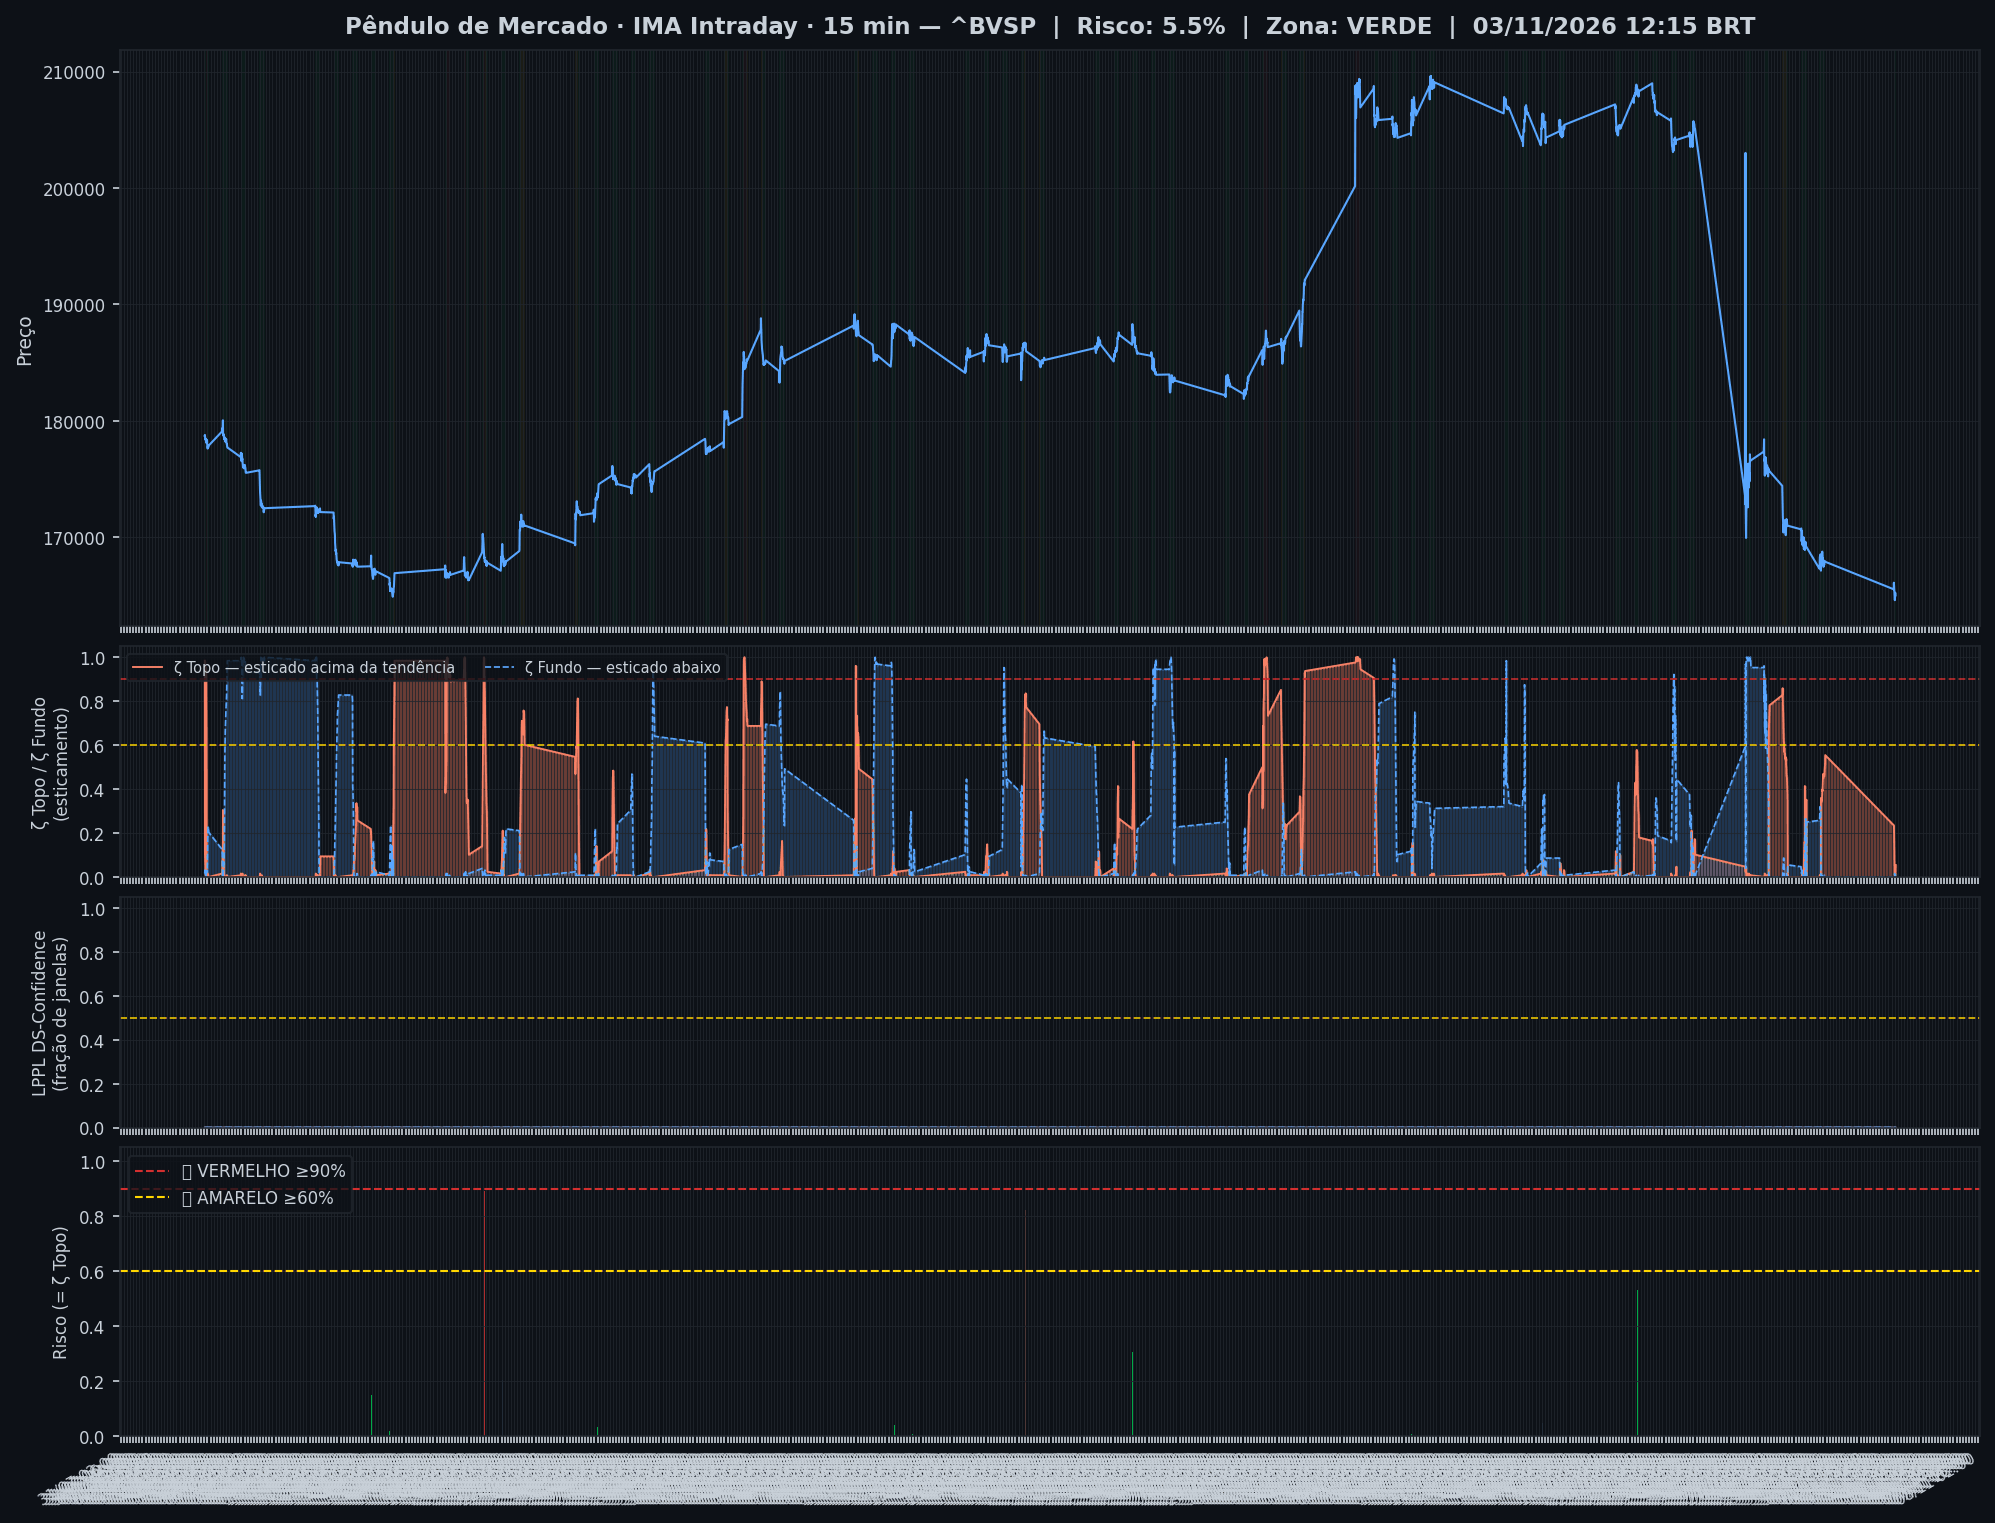
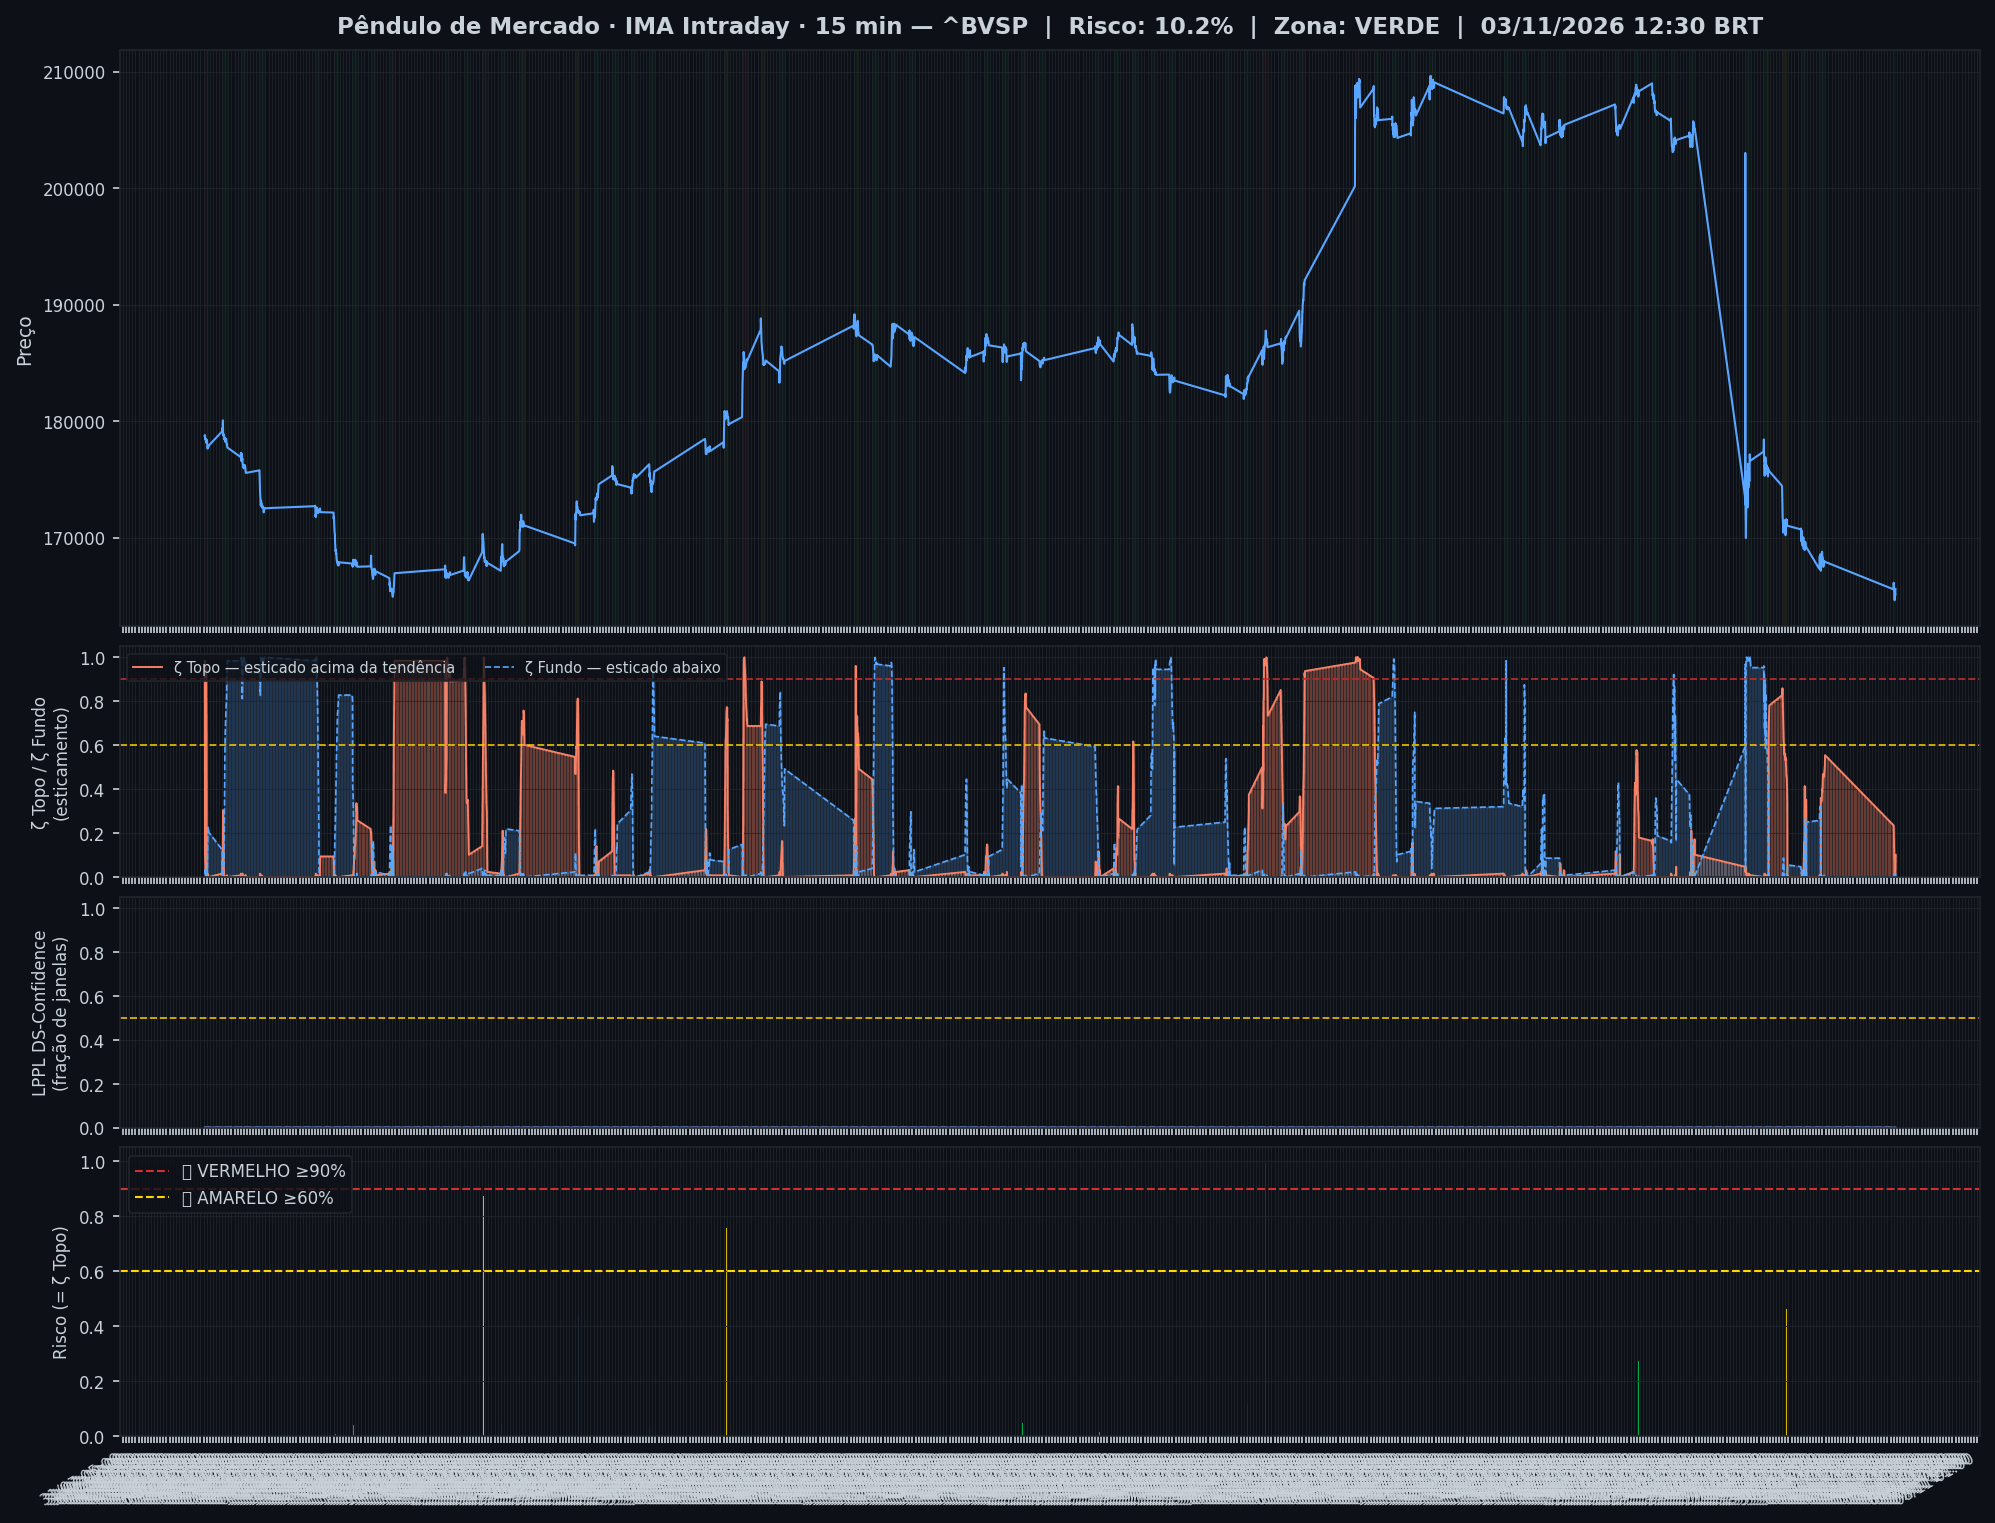
🤖 Auto: Sinal 03/11/2026 12:45

diff --git a/content/intraday/2026-11-03.md b/content/intraday/2026-11-03.md
@@ -1,11 +1,11 @@
 ---
-title: "🟢 Intraday 03/11/2026 12:15 BRT — VERDE"
+title: "🟢 Intraday 03/11/2026 12:30 BRT — VERDE"
 date: 2026-11-03
 tags: [intraday]
 ---
 
-> [!success] Onde o mercado está agora (03/11 12:15, candles de 15 min): **🟢 Calmo**
-> `Pânico ◀──────────●──────────▶ Euforia`
+> [!success] Onde o mercado está agora (03/11 12:30, candles de 15 min): **🟢 Calmo**
+> `Pânico ◀───────────●─────────▶ Euforia`
 >
 > O Ibovespa está dentro da sua faixa normal, sem excesso para cima nem para baixo.
 > No gráfico diário: 📉 Esticamento desinflando.
@@ -20,8 +20,8 @@ tags: [intraday]
 > | 📍 **Sinais** | hoje: 2 sinal(is), 1 forte(s) | [abrir](sinais-topo-fundo/) |
 > | 🧪 **Placar ao vivo** | 1 operação(ões), 0 com lucro, soma -0,8% | [abrir](operacoes/) |
 
-> [!success] IMA Intraday · 15 min (03/11 12:15): 🟢 **VERDE** — Risco 5% · ▲ +3 p.p. vs leitura anterior
-> `█░░░░░░░░░░░░░░░░░░░`
+> [!success] IMA Intraday · 15 min (03/11 12:30): 🟢 **VERDE** — Risco 10% · ▲ +5 p.p. vs leitura anterior
+> `██░░░░░░░░░░░░░░░░░░`
 > Preço na faixa normal em torno da tendência.
 
 
@@ -32,13 +32,13 @@ tags: [intraday]
 >
 > *Leitura educacional baseada em 26 anos de dados, não recomendação. [Como usar](../metodologia/crise#3-como-usar-na-prática).*
 
-| Indicador — IMA Intraday · 15 min (03/11 12:15) | Valor |
+| Indicador — IMA Intraday · 15 min (03/11 12:30) | Valor |
 |---|---|
-| 🔴 ζ Topo — preço esticado acima da tendência | **5%** |
-| 🔵 ζ Fundo — preço esticado abaixo da tendência | 2% |
+| 🔴 ζ Topo — preço esticado acima da tendência | **10%** |
+| 🔵 ζ Fundo — preço esticado abaixo da tendência | 1% |
 | 🫧 LPPL bolha — alta super-exponencial (risco de crash) | 0% |
 | 🫧 LPPL antibolha — queda super-exponencial (risco de repique) | 0% |
-| 📊 Ibovespa | 165.022 pts |
+| 📊 Ibovespa | 165.587 pts |
 
 ![Gráfico do sinal](../graficos/sinal_intraday.png)
 
@@ -46,6 +46,7 @@ tags: [intraday]
 
 | Data | Zona | Evento | Risco | ζ Topo | ζ Fundo | LPPL |
 |---|---|---|---|---|---|---|
+| 2026-11-03 12:30 | 🟢 VERDE |  | **10%** | 10% | 1% | 0% |
 | 2026-11-03 12:15 | 🟢 VERDE |  | **5%** | 5% | 2% | 0% |
 | 2026-11-03 12:00 | 🟢 VERDE |  | **2%** | 2% | 1% | 0% |
 | 2026-11-03 11:45 | 🟢 VERDE |  | **1%** | 1% | 0% | 0% |
@@ -75,51 +76,50 @@ tags: [intraday]
 | 2026-10-30 13:15 | 🟢 VERDE |  | **37%** | 37% | 0% | 0% |
 | 2026-10-30 13:00 | 🟢 VERDE |  | **35%** | 35% | 1% | 0% |
 | 2026-10-30 12:45 | 🟢 VERDE |  | **34%** | 34% | 2% | 0% |
-| 2026-10-30 12:30 | 🟢 VERDE |  | **34%** | 34% | 1% | 0% |
 
 <small>Destaques: 🟡 ≥ 60% · 🔴 ≥ 90% (Risco e ζ Topo) · 🔵 ≥ 60% · 🔪 ≥ 90% (ζ Fundo) · 🫧 ≥ 30% · 🫧🔴 ≥ 50% (LPPL)</small>
 
 ## Monitor Multi-Ativo
 
-**4% dos ativos em tensão** (0🔴 1🟡) · **0 com ζ Fundo alto** — quanto mais ativos disparam juntos, mais confiável o sinal.
+**4% dos ativos em tensão** (0🔴 1🟡) · **1 com ζ Fundo alto** — quanto mais ativos disparam juntos, mais confiável o sinal.
 
 > [!warning] Em destaque no multi-ativo
-> 🟡 **EMBRAER** ζ Topo 60%
+> 🟡 **EMBRAER** ζ Topo 64% · 🔵 **VALE** ζ Fundo 60%
 
 | Zona | Ativo | Setor | ζ Topo | ζ Fundo |
 |---|---|---|---|---|
-| 🟡 | **EMBRAER** | Outros | 🟡 **60.2%** | 0.8% |
-| 🟢 | **VALE** | Mineração | 0.0% | 58.6% |
-| 🟢 | **REDE D OR** | Saúde | 49.2% | 0.8% |
-| 🟢 | **ITAUSA** | Financeiro | 44.5% | 0.8% |
-| 🟢 | **ENEVA** | Energia | 36.7% | 1.6% |
-| 🟢 | **PETROBRAS** | Petróleo | 3.1% | 32.8% |
-| 🟢 | **B3** | Financeiro | 32.8% | 0.0% |
-| 🟢 | **LOCALIZA** | Aluguel | 30.5% | 0.8% |
-| 🟢 | **VIBRA** | Energia | 28.9% | 0.0% |
-| 🟢 | **PETROBRAS** | Petróleo | 3.9% | 27.3% |
-| 🟢 | **PRIO** | Petróleo | 9.4% | 25.0% |
+| 🟡 | **EMBRAER** | Outros | 🟡 **64.1%** | 0.0% |
+| 🟢 | **VALE** | Mineração | 0.0% | 🔵 **60.2%** |
+| 🟢 | **REDE D OR** | Saúde | 48.4% | 0.8% |
+| 🟢 | **ITAUSA** | Financeiro | 43.8% | 0.0% |
+| 🟢 | **B3** | Financeiro | 35.2% | 0.8% |
+| 🟢 | **ENEVA** | Energia | 35.2% | 0.8% |
+| 🟢 | **PETROBRAS** | Petróleo | 5.5% | 29.7% |
+| 🟢 | **VIBRA** | Energia | 29.7% | 0.0% |
+| 🟢 | **LOCALIZA** | Aluguel | 28.9% | 0.8% |
 | 🟢 | **EQUATORIAL** | Energia | 25.0% | 1.6% |
-| 🟢 | **GERDAU** | Siderurgia | 19.5% | 1.6% |
+| 🟢 | **PRIO** | Petróleo | 5.5% | 24.2% |
+| 🟢 | **PETROBRAS** | Petróleo | 6.2% | 22.7% |
+| 🟢 | **GERDAU** | Siderurgia | 20.3% | 0.8% |
+| 🟢 | **ITAUUNIBANCO** | Financeiro | 13.3% | 0.8% |
+| 🟢 | **AXIA ENERGIA** | Energia | 13.3% | 0.0% |
 | 🟢 | **USD/BRL** | Câmbio | 0.8% | 12.5% |
-| 🟢 | **ITAUUNIBANCO** | Financeiro | 10.9% | 0.8% |
-| 🟢 | **BBSEGURIDADE** | Financeiro | 0.0% | 10.9% |
-| 🟢 | **AXIA ENERGIA** | Energia | 10.2% | 0.0% |
-| 🟢 | **BRASIL** | Financeiro | 8.6% | 1.6% |
-| 🟢 | **AMBEV S/A** | Consumo | 7.0% | 0.0% |
-| 🟢 | **SUZANO S.A.** | Papel/Celulose | 6.2% | 2.3% |
-| 🟢 | **WEG** | Industrial | 0.0% | 5.5% |
+| 🟢 | **BRASIL** | Financeiro | 11.7% | 1.6% |
+| 🟢 | **AMBEV S/A** | Consumo | 9.4% | 0.0% |
+| 🟢 | **BBSEGURIDADE** | Financeiro | 0.0% | 9.4% |
+| 🟢 | **SUZANO S.A.** | Papel/Celulose | 0.0% | 7.8% |
+| 🟢 | **SABESP** | Saneamento | 3.9% | 0.0% |
 | 🟢 | **BTGP BANCO** | Financeiro | 3.9% | 1.6% |
-| 🟢 | **SABESP** | Saneamento | 3.1% | 0.8% |
-| 🟢 | **BRADESCO** | Financeiro | 1.6% | 3.1% |
-| 🟢 | **COPEL** | Energia | 0.0% | 0.8% |
+| 🟢 | **BRADESCO** | Financeiro | 1.6% | 2.3% |
+| 🟢 | **COPEL** | Energia | 0.8% | 0.8% |
+| 🟢 | **WEG** | Industrial | 0.0% | 0.0% |
 | 🟢 | **ULTRAPAR** | Outros | 0.0% | 0.0% |
 
 <small>Destaques: 🟡 ≥ 60% · 🔴 ≥ 90% (Risco e ζ Topo) · 🔵 ≥ 60% · 🔪 ≥ 90% (ζ Fundo) · 🫧 ≥ 30% · 🫧🔴 ≥ 50% (LPPL)</small>
 
 ![Monitor multi-ativo](../graficos/multi_intraday.png)
 
-*Página atualizada em 03/11/2026 12:30 BRT (leitura da barra de 2026-11-03 12:15 BRT).*
+*Página atualizada em 03/11/2026 12:45 BRT (leitura da barra de 2026-11-03 12:30 BRT).*
 
 > [!warning] O que este indicador não faz
 > Medido em 5 anos de Ibovespa, o ζ **não antecipa** topos nem fundos: a capacidade de separar o que sobe do que cai ficou em 0,49–0,52, e 0,50 é moeda jogada ao ar. Ele descreve o estado de agora; não é aviso do que vem. As zonas verde/amarelo/vermelho continuam na página como descrição desse estado — **não as use como sinal de entrada ou saída**.

diff --git a/content/index.md b/content/index.md
@@ -6,10 +6,10 @@ tags: [home]
 
 **As ondas do mercado, explicadas.** Leitura do Ibovespa com estatística de 26 anos, baseada no trabalho de pesquisadores e traders reconhecidos e adaptada por Jarbas Daniel da Costa.
 
-*Última atualização: 03/11/2026 12:30 BRT · Intraday 15min*
+*Última atualização: 03/11/2026 12:45 BRT · Intraday 15min*
 
-> [!success] Onde o mercado está agora (03/11 12:15, candles de 15 min): **🟢 Calmo**
-> `Pânico ◀──────────●──────────▶ Euforia`
+> [!success] Onde o mercado está agora (03/11 12:30, candles de 15 min): **🟢 Calmo**
+> `Pânico ◀───────────●─────────▶ Euforia`
 >
 > O Ibovespa está dentro da sua faixa normal, sem excesso para cima nem para baixo.
 > No gráfico diário: 📉 Esticamento desinflando.
@@ -20,7 +20,7 @@ tags: [home]
 
 | Módulo | Agora | |
 |---|---|---|
-| 🌊 **Sinal de Crise** | 🟢 VERDE · 🟢 calmo · ζ Topo 5% | [relatório](intraday/2026-11-03) |
+| 🌊 **Sinal de Crise** | 🟢 VERDE · 🟢 calmo · ζ Topo 10% | [relatório](intraday/2026-11-03) |
 | 📈 **Tendência MME9** | Diário — fora<br>Semanal ⚡ saiu hoje às 10:00 a 167.008 (confirma às 19h) | [abrir](operacoes/tendencia) |
 | 🎯 **Entradas do método** | ⏳ aguardando: Diário · Nadaraya, H4 · Semáforo N2, Diário · Semáforo N3 após ζ Fundo | [abrir](operacoes/entradas) |
 | 📍 **Sinais** | hoje: 2 sinal(is), 1 forte(s) | [abrir](sinais-topo-fundo/) |
@@ -61,18 +61,18 @@ tags: [home]
 > *Leitura educacional baseada em 26 anos de dados, não recomendação. [Como usar](metodologia/crise#3-como-usar-na-prática).*
 
 > [!info]- 🌊 Detalhes do Sinal de Crise (indicadores e últimos 7 pregões)
-> > [!success] IMA Intraday · 15 min (03/11 12:15): 🟢 **VERDE** — Risco 5% · ▲ +3 p.p. vs leitura anterior
-> > `█░░░░░░░░░░░░░░░░░░░`
+> > [!success] IMA Intraday · 15 min (03/11 12:30): 🟢 **VERDE** — Risco 10% · ▲ +5 p.p. vs leitura anterior
+> > `██░░░░░░░░░░░░░░░░░░`
 > > Preço na faixa normal em torno da tendência.
 >
 >
-> | Indicador — IMA Intraday · 15 min (03/11 12:15) | Valor |
+> | Indicador — IMA Intraday · 15 min (03/11 12:30) | Valor |
 > |---|---|
-> | 🔴 ζ Topo — preço esticado acima da tendência | **5%** |
-> | 🔵 ζ Fundo — preço esticado abaixo da tendência | 2% |
+> | 🔴 ζ Topo — preço esticado acima da tendência | **10%** |
+> | 🔵 ζ Fundo — preço esticado abaixo da tendência | 1% |
 > | 🫧 LPPL bolha — alta super-exponencial (risco de crash) | 0% |
 > | 🫧 LPPL antibolha — queda super-exponencial (risco de repique) | 0% |
-> | 📊 Ibovespa | 165.022 pts |
+> | 📊 Ibovespa | 165.587 pts |
 >
 > **Multi-ativo:** 4% em tensão (0🔴 1🟡 de 26 ativos)
 >
@@ -80,7 +80,7 @@ tags: [home]
 >
 > | Data | Zona | Risco | ζ Topo | ζ Fundo | LPPL |
 > |---|---|---|---|---|---|
-> | [03/11/2026](intraday/2026-11-03) | 🟢 VERDE | **5%** | 5% | 2% | 0% |
+> | [03/11/2026](intraday/2026-11-03) | 🟢 VERDE | **10%** | 10% | 1% | 0% |
 > | [30/10/2026](intraday/2026-10-30) | 🟢 VERDE | **55%** | 55% | 0% | 0% |
 >
 > <small>Destaques: 🟡 ≥ 60% · 🔴 ≥ 90% (Risco e ζ Topo) · 🔵 ≥ 60% · 🔪 ≥ 90% (ζ Fundo) · 🫧 ≥ 30% · 🫧🔴 ≥ 50% (LPPL)</small>

diff --git a/content/historico.md b/content/historico.md
@@ -5,7 +5,7 @@ tags: [historico]
 
 # 📜 Histórico de leituras (v5)
 
-**2.085 leituras** desde 2026-07-03. Na página ficam os últimos 3 dias leitura por leitura e o resumo de cada dia anterior; o registro inteiro está no arquivo para baixar.
+**2.086 leituras** desde 2026-07-03. Na página ficam os últimos 3 dias leitura por leitura e o resumo de cada dia anterior; o registro inteiro está no arquivo para baixar.
 
 [**Baixar o histórico completo**](historico-completo.csv) (91 KB · abre no Excel e no LibreOffice)
 
@@ -16,6 +16,7 @@ tags: [historico]
 
 | Data | Modo | Zona | Risco | IMA | LPPL |
 |---|---|---|---|---|---|
+| 2026-11-03 12:30 | intraday | 🟢 VERDE | 10% | 10% | 0% |
 | 2026-11-03 12:15 | intraday | 🟢 VERDE | 5% | 5% | 0% |
 | 2026-11-03 12:00 | intraday | 🟢 VERDE | 2% | 2% | 0% |
 | 2026-11-03 11:45 | intraday | 🟢 VERDE | 1% | 1% | 0% |

diff --git a/content/operacoes/ranking.md b/content/operacoes/ranking.md
@@ -5,7 +5,7 @@ tags: [operacoes]
 description: "As regras de compra do site ordenadas pelo resultado, com treino, teste e placar ao vivo"
 ---
 
-*Atualizado 03/11/2026 12:30 · histórico simulado com as regras congeladas em 23/10/2026 + placar ao vivo.*
+*Atualizado 03/11/2026 12:45 · histórico simulado com as regras congeladas em 23/10/2026 + placar ao vivo.*
 
 As regras de compra do site, **da que mais rendeu para a que menos rendeu**. O resultado é por operação, no índice à vista, sem custos e sem juros compostos (a soma é só a soma das operações). **Treino** = entradas de 2001 a 2013 e **teste** = 2014 em diante: uma regra só é confiável se ganhou nos dois. O único resultado sem nenhum ajuste ao histórico é o **placar ao vivo**.
 

diff --git a/content/linha-do-tempo/index.md b/content/linha-do-tempo/index.md
@@ -5,7 +5,7 @@ description: "Todo sinal, ordem, stop e aviso do Pêndulo de Mercado, do mais re
 tags: [eventos]
 ---
 
-*Atualizada 03/11/2026 12:30 BRT · a cada 15 min no pregão e às 19h.*
+*Atualizada 03/11/2026 12:45 BRT · a cada 15 min no pregão e às 19h.*
 
 Tudo o que o sistema fez ou detectou, **do mais recente para o mais antigo**: sinais de topo e fundo, ordens de compra e de venda armadas, compras, vendas, stops, avisos de 🚨 preço perto do nível e mudanças da Crise. Os **últimos 7 dias** ficam abertos; o resto, por **ano → mês → dia**.
 
